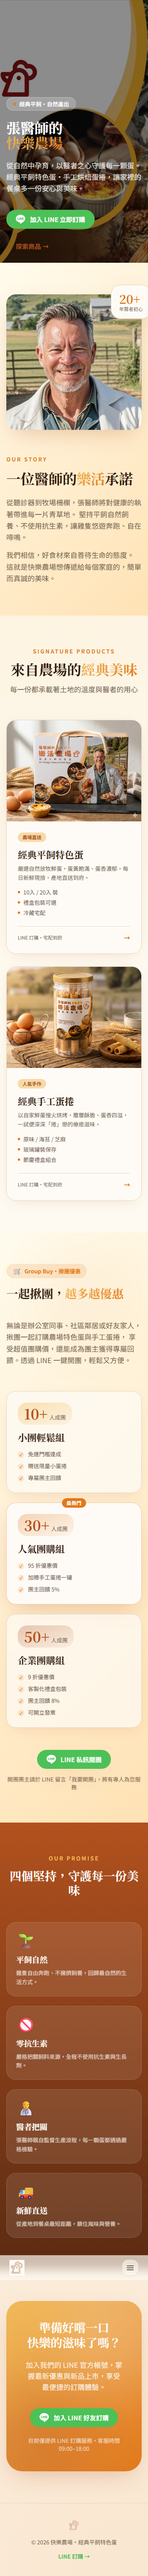
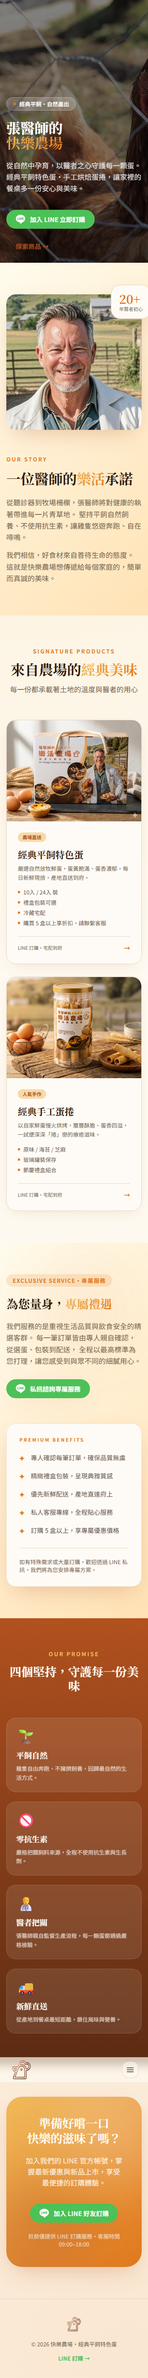
changes

diff --git a/src/routes/index.tsx b/src/routes/index.tsx
@@ -43,7 +43,7 @@ function Nav() {
         <nav className="hidden md:flex items-center gap-8 text-sm font-medium text-muted-foreground">
           <a href="#story" className="hover:text-primary transition-colors">品牌故事</a>
           <a href="#products" className="hover:text-primary transition-colors">商品</a>
-          <a href="#groupbuy" className="hover:text-primary transition-colors">團購方案</a>
+          <a href="#groupbuy" className="hover:text-primary transition-colors">專屬服務</a>
           <a href="#promise" className="hover:text-primary transition-colors">我們的承諾</a>
         </nav>
         <div className="flex items-center gap-4">
@@ -91,7 +91,7 @@ function MobileMenu() {
             <nav className="flex flex-col gap-6 text-lg font-medium">
               <a onClick={() => setOpen(false)} href="#story" className="block">品牌故事</a>
               <a onClick={() => setOpen(false)} href="#products" className="block">商品</a>
-              <a onClick={() => setOpen(false)} href="#groupbuy" className="block">團購方案</a>
+              <a onClick={() => setOpen(false)} href="#groupbuy" className="block">專屬服務</a>
               <a onClick={() => setOpen(false)} href="#promise" className="block">我們的承諾</a>
             </nav>
 
@@ -249,10 +249,10 @@ function Story() {
 const products = [
   {
     img: "https://digitner-bucket.s3.ap-south-1.amazonaws.com/image/1779936796688_Gemini_Generated_Image_5fvnwp5fvnwp5fvn.png",
-    tag: "農場直送",
-    title: "經典平飼特色蛋",
-    desc: "嚴選自然放牧鮮蛋，蛋黃飽滿、蛋香濃郁，每日新鮮現撿，產地直送到府。",
-    features: ["10入 / 24入 裝", "禮盒包裝可選", "冷藏宅配", "購買 5 盒以上享折扣，請聯繫客服"],
+    tag: "嚴選珍品",
+    title: "精選平飼特色蛋",
+    desc: "甄選自由奔跑的平飼鮮蛋，蛋黃飽滿金潤、蛋香馥郁純淨，每日晨間現撿，冷鏈直送府上。",
+    features: ["10入 / 24入 精裝", "典雅禮盒包裝可選", "全程冷鏈宅配", "五盒以上享專屬優惠，歡迎私訊客服"],
   },
   {
     img: "https://digitner-bucket.s3.ap-south-1.amazonaws.com/image/1779936858254_Gemini_Generated_Image_m480y5m480y5m480.png",
@@ -328,13 +328,12 @@ function Products() {
   );
 }
 
-const groupBuyTiers = [
-  {
-    size: "10+",
-    title: "小團輕鬆組",
-    perks: ["免運門檻達成", "贈送限量小蛋捲", "專屬團主回饋"],
-    accent: "from-secondary/40 to-secondary/10",
-  },
+const exclusivePerks = [
+  { icon: "✦", text: "專人確認每筆訂單，確保品質無虞" },
+  { icon: "✦", text: "精緻禮盒包裝，呈現典雅質感" },
+  { icon: "✦", text: "優先新鮮配送，產地直達府上" },
+  { icon: "✦", text: "私人客服專線，全程貼心服務" },
+  { icon: "✦", text: "訂購 5 盒以上，享專屬優惠價格" },
 ];
 
 function GroupBuy() {
@@ -346,66 +345,41 @@ function GroupBuy() {
         transition={{ duration: 8, repeat: Infinity }}
       />
       <div className="max-w-6xl mx-auto relative">
-        <div className="grid lg:grid-cols-2 gap-12 items-end mb-16">
+        <div className="grid lg:grid-cols-2 gap-16 items-center">
           <Reveal>
-            <div className="inline-flex items-center gap-2 px-4 py-1.5 rounded-full bg-primary/15 text-primary text-sm font-semibold mb-5">
-              <span className="text-base">🛒</span> Group Buy・揪團優惠
+            <div className="inline-flex items-center gap-2 px-4 py-1.5 rounded-full bg-primary/15 text-primary text-sm font-semibold tracking-widest mb-6 uppercase">
+              Exclusive Service・專屬服務
             </div>
-            <h2 className="text-3xl sm:text-4xl md:text-5xl font-bold text-foreground leading-tight">
-              一起揪團，<span className="text-gradient-sun">越多越優惠</span>
+            <h2 className="text-3xl sm:text-4xl md:text-5xl font-bold text-foreground leading-tight mb-6">
+              為您量身，<span className="text-gradient-sun">專屬禮遇</span>
             </h2>
-          </Reveal>
-          <Reveal delay={0.1}>
-            <p className="text-muted-foreground text-lg leading-relaxed">
-              無論是辦公室同事、社區鄰居或好友家人，揪團一起訂購農場特色蛋與手工蛋捲，
-              享受超值團購價，還能成為團主獲得專屬回饋。透過 LINE 一鍵開團，輕鬆又方便。
+            <p className="text-muted-foreground text-lg leading-relaxed mb-8">
+              我們服務的是重視生活品質與飲食安全的精選客群。
+              每一筆訂單皆由專人親自確認，從選蛋、包裝到配送，
+              全程以最高標準為您打理，讓您感受到與眾不同的細膩用心。
             </p>
+            <LineButton>私訊諮詢專屬服務</LineButton>
+          </Reveal>
+
+          <Reveal delay={0.15}>
+            <div className="bg-card rounded-3xl p-8 shadow-warm border border-border/60">
+              <div className="text-xs font-bold tracking-[0.25em] text-primary uppercase mb-6">
+                Premium Benefits
+              </div>
+              <ul className="space-y-5">
+                {exclusivePerks.map((perk) => (
+                  <li key={perk.text} className="flex items-start gap-4">
+                    <span className="text-primary font-bold mt-0.5 flex-shrink-0">{perk.icon}</span>
+                    <span className="text-foreground/80 leading-relaxed">{perk.text}</span>
+                  </li>
+                ))}
+              </ul>
+              <div className="mt-8 pt-6 border-t border-border text-sm text-muted-foreground">
+                如有特殊需求或大量訂購，歡迎透過 LINE 私訊，我們將為您安排專屬方案。
+              </div>
+            </div>
           </Reveal>
         </div>
-
-        <div className="grid gap-6 max-w-sm">
-          {groupBuyTiers.map((t, i) => (
-            <Reveal key={t.title} delay={i * 0.1}>
-              <motion.div
-                whileHover={{ y: -8 }}
-                transition={{ type: "spring", stiffness: 300, damping: 20 }}
-                className={`relative h-full rounded-3xl p-7 border ${
-                  t.featured
-                    ? "border-primary/40 bg-card shadow-warm"
-                    : "border-border bg-card/70 backdrop-blur-sm shadow-soft"
-                }`}
-              >
-                {t.featured && (
-                  <div className="absolute -top-3 left-1/2 -translate-x-1/2 px-3 py-1 rounded-full bg-primary text-primary-foreground text-xs font-bold tracking-wider">
-                    最熱門
-                  </div>
-                )}
-                <div className={`inline-flex items-baseline gap-1 px-4 py-2 rounded-2xl bg-gradient-to-br ${t.accent} mb-4`}>
-                  <span className="font-display text-4xl font-bold text-accent">{t.size}</span>
-                  <span className="text-sm text-muted-foreground">人成團</span>
-                </div>
-                <h3 className="font-display text-2xl font-bold text-foreground mb-4">{t.title}</h3>
-                <ul className="space-y-2.5">
-                  {t.perks.map((perk) => (
-                    <li key={perk} className="flex items-start gap-2.5 text-sm text-foreground/80">
-                      <span className="mt-1 w-4 h-4 rounded-full bg-primary/15 text-primary grid place-items-center text-[10px] font-bold flex-shrink-0">✓</span>
-                      {perk}
-                    </li>
-                  ))}
-                </ul>
-              </motion.div>
-            </Reveal>
-          ))}
-        </div>
-
-        <Reveal delay={0.3}>
-          <div className="mt-14 flex flex-col sm:flex-row items-center justify-center gap-4 text-center">
-            <LineButton>LINE 私訊開團</LineButton>
-            <p className="text-sm text-muted-foreground">
-              開團團主請於 LINE 留言「我要開團」，將有專人為您服務
-            </p>
-          </div>
-        </Reveal>
       </div>
     </section>
   );
@@ -511,7 +485,7 @@ function Footer() {
         </div>
         <div>© {new Date().getFullYear()} 快樂農場・經典平飼特色蛋</div>
         <a
-          href="https://13.63.69.9.nip.io/lineapp/"
+          href="https://13.48.203.49.nip.io/lineapp/"
           target="_blank"
           rel="noopener noreferrer"
           className="text-line hover:underline font-semibold"

diff --git a/src/components/LineButton.tsx b/src/components/LineButton.tsx
@@ -9,7 +9,7 @@ export function LineButton({
 }) {
   return (
     <motion.a
-      href="https://13.63.69.9.nip.io/lineapp/"
+      href="https://13.48.203.49.nip.io/lineapp/"
       target="_blank"
       rel="noopener noreferrer"
       whileHover={{ scale: 1.04, y: -2 }}
